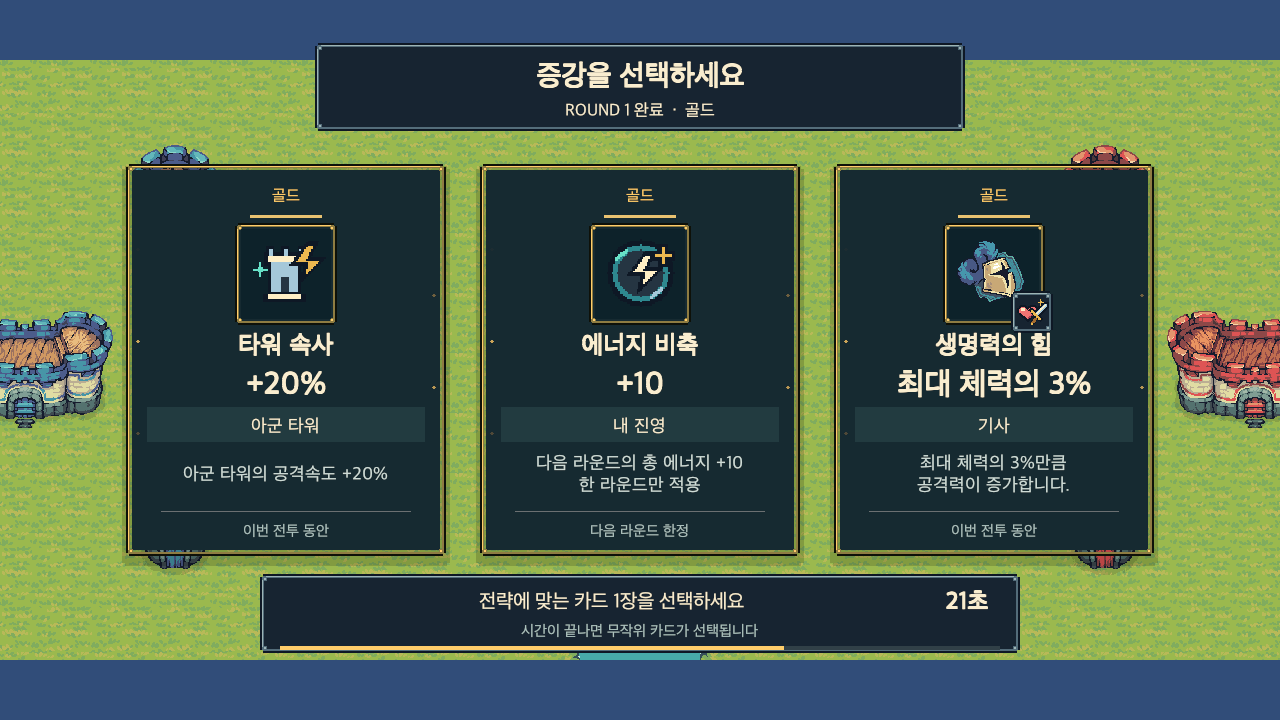
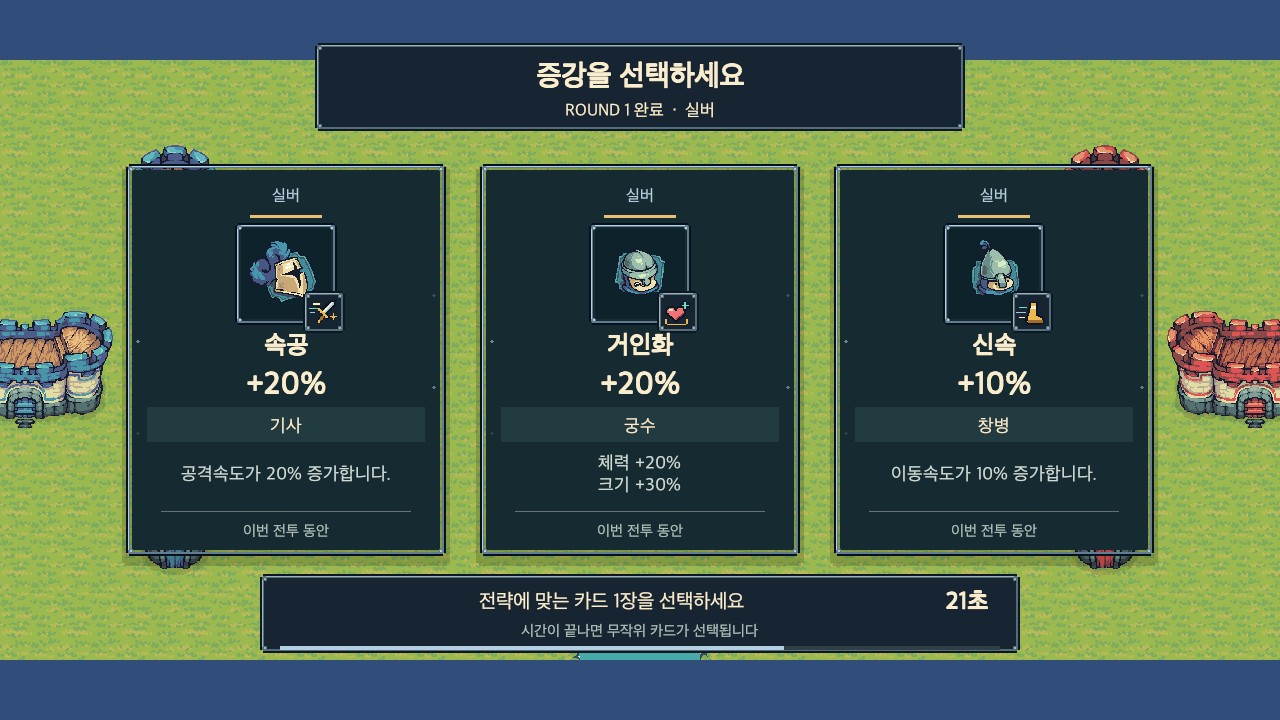
docs: 니성내성 기획 판단과 AI 수정 사례 보완

diff --git a/projects/teamfight/source/BattleSpellRules.cs b/projects/teamfight/source/BattleSpellRules.cs
@@ -1,0 +1,81 @@
+using System;
+using System.Collections.Generic;
+
+public enum BattleSpell { Fireball, Lightning, Frost, Poison }
+public static class BattleTempo
+{
+    public const float Movement = .80f;
+    public const float Attack = .80f;
+}
+public static class BattleSpellRules
+{
+    // Shared ground projection for targeting, visual footprint and authoritative hits.
+    public const float GroundAspect = .45f;
+    public const int Count = 4;
+    public const int Capacity = 16;
+    public static bool Valid(int kind) => kind >= 0 && kind < Count;
+    public static int Cost(int kind) => kind == 0 ? 4 : kind == 1 ? 2 : kind == 2 ? 3 : 4;
+    public static string Name(int kind) => new[] { "화염구", "번개", "빙결", "독" }[kind];
+    public static float Radius(int kind) => kind == 1 ? 1.4f : kind == 0 ? 1.8f : 2f;
+    public static float Delay(int kind) => kind == 0 ? 1.65f : kind == 1 ? .76f : .4f;
+    public static float Duration(int kind) => kind == 3 ? 5f : kind == 2 ? 2f : kind == 1 ? 3f : 0;
+    public static float ActiveDuration(SpellSnapshot spell) => Duration(spell.Kind) + spell.ExtraDuration;
+    public static float Damage(int kind) => kind == 0 ? 160f : kind == 1 ? 15f : kind == 3 ? 18f : 0;
+    public static float Cooldown(int kind) => 0f;
+    public static bool ValidPoint(float x,float y) => !float.IsNaN(x)&&!float.IsNaN(y)&&!float.IsInfinity(x)&&!float.IsInfinity(y)&&Math.Abs(x)<=12&&Math.Abs(y)<=5;
+    public static bool Contains(SpellSnapshot spell,float x,float y)
+    { float dx=x-spell.X,dy=(y-spell.Y)/GroundAspect,r=Radius(spell.Kind);return dx*dx+dy*dy<=r*r; }
+    public static bool Intersects(SpellSnapshot spell,ArenaNavigation.Obstacle bounds)
+    {return Contains(spell,Math.Max(bounds.MinX,Math.Min(bounds.MaxX,spell.X)),Math.Max(bounds.MinY,Math.Min(bounds.MaxY,spell.Y)));}
+
+}
+public struct SpellSnapshot
+#if TEAMFIGHT_FUSION
+    : Fusion.INetworkStruct
+#endif
+{
+    public int Id, Team, Kind;
+    public float X, Y, Age, ExtraDuration, EmberDps;
+}
+/// <summary>Shared deterministic timing, capacity and cooldown rules for local and server battles.</summary>
+public sealed class BattleSpellTimeline
+{
+    public readonly List<SpellSnapshot> Active = new List<SpellSnapshot>();
+    readonly float[,] ready = new float[2,4];
+    float clock;
+    int serial;
+    public float ReadyIn(int team,int kind) => Math.Max(0,ready[team,kind]-clock);
+    public bool TryCast(int team,int kind,float x,float y,float energy,out string reason)
+    {
+        reason="";
+        if(team<0||team>1||!BattleSpellRules.Valid(kind)||!BattleSpellRules.ValidPoint(x,y)){reason="Invalid spell target.";return false;}
+        if(Active.Count>=BattleSpellRules.Capacity){reason="Too many active spells.";return false;}
+        if(ReadyIn(team,kind)>0){reason="Spell is cooling down.";return false;}
+        if(energy<BattleSpellRules.Cost(kind)){reason="Not enough energy.";return false;}
+        ready[team,kind]=clock+BattleSpellRules.Cooldown(kind);
+        Active.Add(new SpellSnapshot{Id=++serial,Team=team,Kind=kind,X=x,Y=y});return true;
+    }
+    public bool BlocksHealing(int team,float x,float y)
+    {
+        foreach(var s in Active)if(s.Kind==3&&s.Team!=team&&s.Age>=BattleSpellRules.Delay(3)&&s.Age<BattleSpellRules.Delay(3)+BattleSpellRules.ActiveDuration(s)&&BattleSpellRules.Contains(s,x,y))return true;
+        return false;
+    }
+    public void Tick(float dt,Action<SpellSnapshot,float> apply)
+    {
+        if(dt<=0||float.IsNaN(dt)||float.IsInfinity(dt))return;
+        clock+=dt;
+        for(int i=Active.Count-1;i>=0;i--){var s=Active[i];float previous=s.Age;s.Age+=dt;Active[i]=s;
+            float delay=BattleSpellRules.Delay(s.Kind);
+            if(s.Kind==3){float overlap=Math.Max(0,Math.Min(s.Age,delay+BattleSpellRules.ActiveDuration(s))-Math.Max(previous,delay));if(overlap>0)apply(s,overlap);}
+            else {
+                if(previous<delay&&s.Age>=delay)apply(s,1);
+                if(s.Kind==0 && s.EmberDps>0) {
+                    float overlap=Math.Max(0,Math.Min(s.Age,delay+s.ExtraDuration)-Math.Max(previous,delay));
+                    if(overlap>0)apply(s,-overlap);
+                }
+            }
+            if(s.Age>delay+Math.Max(1.2f,BattleSpellRules.ActiveDuration(s)))Active.RemoveAt(i);
+        }
+    }
+    public void Clear(){Active.Clear();Array.Clear(ready,0,ready.Length);}
+}

diff --git a/projects/teamfight/source/BattleAugmentRules.cs b/projects/teamfight/source/BattleAugmentRules.cs
@@ -5,7 +5,7 @@ public enum AugmentTier { Silver, Gold, Prismatic }
 public enum AugmentEffect
 {
     AttackSpeed, HealthAndSize, MovementSpeed, TowerAttackSpeed, NextRoundEnergy,
-    HealthDamage, TotalAttackSpeed, Range, Cost, Twins, StationaryTaunt, Unlimited
+    HealthDamage, TotalAttackSpeed, Range, Cost, Twins, StationaryTaunt, Unlimited, FireEmbers, LightningMark, FrostShatter, PoisonZone
 }
 
 public static class BattleAugmentRules
@@ -17,25 +17,28 @@ public static class BattleAugmentRules
         return roll < 40 ? AugmentTier.Silver : roll < 75 ? AugmentTier.Gold : AugmentTier.Prismatic;
     }
     public static AugmentTier Tier(AugmentEffect effect)
-        => effect <= AugmentEffect.MovementSpeed ? AugmentTier.Silver
+        => SpellKind(effect) >= 0 ? AugmentTier.Gold : effect <= AugmentEffect.MovementSpeed ? AugmentTier.Silver
         : effect <= AugmentEffect.Range ? AugmentTier.Gold : AugmentTier.Prismatic;
     public static bool TargetsUnit(AugmentEffect effect)
         => effect != AugmentEffect.TowerAttackSpeed && effect != AugmentEffect.NextRoundEnergy;
     public static int Encode(AugmentEffect effect, int kind) => (int)effect * 65536 + kind + 1;
     public static AugmentEffect Effect(int code) => (AugmentEffect)(code / 65536);
     public static int Kind(int code) => code % 65536 - 1;
-    public static int[] Offer(AugmentTier tier, int[] deck, Random random)
+    public static int SpellKind(AugmentEffect effect) => effect >= AugmentEffect.FireEmbers && effect <= AugmentEffect.PoisonZone ? (int)effect - (int)AugmentEffect.FireEmbers : -1;
+    public static int[] Offer(AugmentTier tier, int[] deck, Random random, Func<int,int> spellKind = null, Func<AugmentEffect,bool> eligible = null)
     {
         var effects = new List<List<int>>();
         int combinations = 0;
         foreach (AugmentEffect effect in Enum.GetValues(typeof(AugmentEffect)))
         {
-            if (Tier(effect) != tier) continue;
+            if (Tier(effect) != tier || eligible != null && !eligible(effect)) continue;
             var pool = new List<int>();
             if (TargetsUnit(effect))
             {
                 foreach (int kind in deck)
                 {
+                    int spell = spellKind == null ? -1 : spellKind(kind);
+                    if (SpellKind(effect) >= 0 ? spell != SpellKind(effect) : spell >= 0) continue;
                     int code = Encode(effect, kind);
                     if (!pool.Contains(code)) pool.Add(code);
                 }

diff --git a/projects/teamfight/source/DuelSimulation.Augments.cs b/projects/teamfight/source/DuelSimulation.Augments.cs
@@ -50,7 +50,7 @@ public sealed partial class DuelSimulation
                 pool = new int[definitions.Length];
                 for (int kind = 0; kind < pool.Length; kind++) pool[kind] = kind;
             }
-            augmentOffers[team] = BattleAugmentRules.Offer(CurrentAugmentTier, pool, augmentRandom);
+            augmentOffers[team] = BattleAugmentRules.Offer(CurrentAugmentTier, pool, augmentRandom, kind => definitions[kind].Spell, effect => BattleAugmentRules.SpellKind(effect) < 0 || !spellAugments[team,BattleAugmentRules.SpellKind(effect)]);
             augmentPicks[team] = -1;
         }
         SelectingAugment = true; AugmentSeconds = BattleAugmentRules.SelectionSeconds;
@@ -79,6 +79,8 @@ public sealed partial class DuelSimulation
     void ApplyAugment(int team, int code)
     {
         var effect = BattleAugmentRules.Effect(code);
+        int spellKind = BattleAugmentRules.SpellKind(effect);
+        if (spellKind >= 0) { spellAugments[team, spellKind] = true; return; }
         if (effect == AugmentEffect.TowerAttackSpeed) { towerAttackRate[team] *= 1.2f; return; }
         if (effect == AugmentEffect.NextRoundEnergy) { nextRoundEnergy[team] += 10; return; }
         if (originalDefinitions == null)

diff --git a/projects/teamfight/README.md b/projects/teamfight/README.md
@@ -1,45 +1,81 @@
-# 팀파이트 — Unity 전략 대전 게임
+# 니성내성 — 배치와 증강 선택으로 성을 공략하는 전략 대전
 
-유닛 카드를 배치해 상대의 성을 공략하고, 라운드 사이에 증강을 선택하는 전략 대전 게임입니다.
+유닛 카드를 배치해 상대 성을 공략하는 Unity 게임입니다. 반복되는 전투에 변화를 주려고 증강을 추가했고, 유닛을 보내는 것만으로 부족했던 재미를 보완하려고 주문 카드를 만들었습니다.
 
-| 항목 | 내용 |
+| 기간·구성 | 담당 | 환경 | 상태 |
+| --- | --- | --- | --- |
+| 2026년 7월부터 · 2인 | 게임 기획·개발, 플레이 확인과 수정 | Unity 6 · C# · Codex | 개발 중 · 무료 출시 목표 |
+
+기획 방향과 플레이 결과 판단은 제가 맡고, 코드 구현과 원인 분석에는 AI 개발 도구를 활용했습니다. 팀원과는 매주 회의에서 그 주에 맡을 작업을 정했습니다.
+
+## 플레이 흐름
+
+![유닛과 주문이 같은 손패·에너지를 사용하는 개발 화면](media/mixed-hand.png)
+
+**카드 선택·배치 → 전투 → 라운드 종료 → 증강 선택 → 다음 라운드.** 유닛과 주문은 7장 덱에 함께 넣으며, 같은 손패와 에너지를 사용합니다. 첫 슬롯은 유닛 선봉으로 고정하고 나머지 슬롯에 유닛이나 주문을 배치합니다.
+
+## 1. 매 판 비슷한 전개에 증강 선택을 추가했습니다
+
+직접 플레이하면서 매 판 비슷한 흐름이 반복된다고 느꼈습니다. 증강 추가 전 버전을 플레이한 친구에게서도 “루즈하다”는 의견을 들었습니다. 다음 전투의 조건을 바꿀 수 있도록 라운드 사이 세 가지 증강 중 하나를 고르는 시스템을 추가했습니다.
+
+![대상·수치·지속 시간을 구분한 증강 화면](media/augment.png)
+
+선택지는 자신의 덱을 바탕으로 생성하고 동일한 효과·대상 조합은 한 화면에 중복되지 않습니다. 양쪽에 같은 등급을 제공하지만 카드 내용까지 동일하지는 않습니다.
+
+| 골드 등급의 규칙 예시 | 적용 기간 | 달라지는 선택 |
+| --- | --- | --- |
+| 에너지 +10 | 다음 라운드만 | 다음 라운드의 배치·주문 자원을 늘림 |
+| 특정 유닛 총 공격속도 ×1.5 | 남은 전투 | 해당 유닛의 공격 빈도를 높임 |
+| 특정 유닛 사거리 ×1.2 | 남은 전투 | 해당 유닛이 공격 가능한 거리를 늘림 |
+
+다음 라운드 자원을 확보할지, 계속 활용할 유닛을 강화할지 고민할 수 있는 구조입니다. 위 조합은 규칙을 설명하기 위한 예시이며 실제 선택률을 측정한 결과는 아닙니다. 추가 전후를 직접 플레이했을 때는 이전보다 선택의 변화가 생겼다고 느꼈습니다. 추가 후 외부 플레이어 평가는 아직 확보하지 않았습니다.
+
+선택 뒤의 흐름도 연결했습니다. 한 명만 고르면 상대 선택 대기를 표시하고, 30초가 지나면 미선택자만 자동 선택합니다. 양쪽 선택이 끝나면 추가 5초 대기 없이 다음 라운드를 시작합니다. 새 경기에서는 이전 증강·유닛·성 체력·에너지·손패를 초기화합니다.
+
+## 2. 주문마다 역할을 나누고, AI가 다르게 이해한 부분을 바로잡았습니다
+
+유닛을 배치해서 보내는 것만으로는 재미가 부족하다고 느껴 주문을 추가했습니다. 제가 정한 역할은 화염구의 물량 정리, 번개의 저비용 둔화, 빙결의 행동 정지, 독의 지속 피해와 회복 차단입니다.
+
+| 주문 | 제가 정한 역할 | 현재 구현된 기본 수치 |
+| --- | --- | --- |
+| 화염구 | 낮은 코스트의 물량 유닛 정리 | 에너지 4 · 지연 후 범위 피해 160 |
+| 번개 | 적은 비용으로 적의 이동·공격을 늦춤 | 에너지 2 · 피해 15 · 3초간 이동·공격 속도 50% 감소 |
+| 빙결 | 이동과 공격을 멈춤 | 에너지 3 · 2초 정지 |
+| 독 | 지속 피해를 주며 회복 차단 | 에너지 4 · 5초간 초당 피해 18 · 영역 내 회복 불가 |
+
+AI가 독의 효과를 ‘회복량 감소’로 정리했을 때, 제가 원한 것은 회복을 아예 막는 효과라고 다시 설명했습니다. 현재 코드는 독 영역 안에서 회복을 차단하고, 영역이나 지속시간 조건을 벗어나면 회복이 가능하도록 처리합니다. 역할은 제가 정했고, 구체적인 구현과 수치 적용에는 AI의 도움을 받았습니다.
+
+마법 카드를 캐릭터 카드처럼 만들어 달라고 요청했을 때도 처음에는 외형만 바뀌고 별도 버튼으로 남았습니다. 저는 마법도 덱에 넣는 방식이라고 다시 설명했습니다. 이후 유닛과 주문이 같은 손패에서 나오고, 사용하면 에너지를 소모한 뒤 다음 카드로 순환하도록 수정했습니다. 따라서 주문을 쓰는 선택은 유닛 배치에 사용할 자원과 덱 슬롯에도 영향을 줍니다.
+
+## 3. 실제로 보이는 화면과 규칙이 맞는지 확인했습니다
+
+| 제가 발견한 문제 | 수정 방향 | 확인한 구현 |
+| --- | --- | --- |
+| 예고 범위와 실제 타격 범위가 달라 혼란스러움 | 미리 보는 영역과 실제 적용 영역을 일치시킴 | 미리보기·바닥 효과·타격 판정이 같은 타원형 범위 사용 |
+| 독 효과가 유닛을 가림 | 효과가 있어도 전투 상황을 볼 수 있도록 조정 | 독 영역을 유닛 아래에 렌더링 |
+| 시작 전 덱에 마법 그림이 빠짐 | 전투 전에 선택한 카드를 확인할 수 있도록 수정 | 주문 그림·이름·비용 표시 |
+| 성 게이지가 공격에 비해 이상하게 보임 | 실제 체력과 화면 비율을 대조하도록 요청 | 계산은 정상이었고 가독성 보완: 두께·테두리·피해 잔상 적용 |
+
+화염구 연출은 포물선과 하늘에서 떨어지는 안을 나란히 비교한 뒤 사선 낙하를 선택했습니다. 낙하 가속은 유지하되 전체 속도를 조금 늦추도록 다시 요청했고, 낙하 시간은 1.35초에서 1.65초로 조정됐습니다. AI의 첫 결과를 그대로 쓰기보다 직접 보고 원하는 동작과 어긋나는 부분을 좁혀 수정했습니다.
+
+## 4. 이동 오류와 협업
+
+유닛이 다리에 걸리거나 빙빙 돌고 의도와 다른 방향으로 이동하는 현상을 확인해 수정을 요청했습니다. 관련 힐러 수정에서는 사거리를 잠시 벗어난 아군을 계속 추적하고 회복 준비 시간을 보존하도록 바뀌었습니다. 건강한 힐러끼리 서로 따라가는 동작도 막았습니다. 원인 분석과 코드 수정은 AI의 도움을 받았으며, 당시 격리 검사 13건 통과 기록이 있습니다.
+
+팀원과 매주 회의에서 작업을 나누고, 개발 중 어려운 부분은 게임 업계 경험이 있는 교수님께 상담을 신청해 도움을 구했습니다.
+
+## 코드와 검증 기록
+
+| 자료 | 확인할 내용 |
 | --- | --- |
-| 기간 | 2026년 여름방학부터 개발 중 |
-| 담당 | 게임 기획·개발 |
-| 환경 | Unity 6000.3.11f1, C# |
-| 개발 방식 | 기획·플레이 판단은 직접 수행, 구현·원인 분석에 AI 개발 도구 활용 |
-| 상태 | 개발 중 / 2026년 11월 무료 출시 목표 |
+| [BattleAugmentRules.cs](source/BattleAugmentRules.cs) | 등급·효과·덱에 따른 선택지 생성, 중복 방지 |
+| [DuelSimulation.Augments.cs](source/DuelSimulation.Augments.cs) | 선택 확정·타임아웃·효과 적용·라운드 전환 |
+| [BattleSpellRules.cs](source/BattleSpellRules.cs) | 주문 비용·범위·지연·지속시간·회복 차단 |
+| [AugmentBattleChecks.cs](source/AugmentBattleChecks.cs) | 증강 선택과 전환 규칙 검사 |
+| [검증 기록과 출처](EVIDENCE.md) | 날짜별 기록과 남은 검증 범위 |
 
-![증강 선택 화면](media/augment.png)
+코드는 2026년 11월 24일 원본에서 가져온 발췌본이며 단독 실행되지 않습니다. 최신 주문·증강 변경의 실제 두 기기 온라인 대전과 실기기 터치는 추가 검증이 필요합니다. 이번 자료 보완에서는 게임 테스트를 다시 실행하지 않았습니다. 주문 추가 후 재미 개선을 측정한 결과도 아직 제시하지 않았습니다.
 
-## 기획 사례: 매 판 비슷한 흐름에 선택 요소 추가
+원본 프로젝트는 Unity Version Control로 관리합니다. 이 GitHub의 커밋은 포트폴리오 정리 이력입니다. 그래픽에는 Tiny Swords 등 외부 에셋을 사용하며 무료 출시는 목표입니다. 기존 작업명은 팀파이트이고 폴더명은 링크 유지를 위해 그대로 두었습니다.
 
-직접 플레이하면서 매 판 비슷하게 흘러가 변화가 적다고 느꼈습니다. 증강 추가 전 버전을 플레이한 친구에게서도 게임이 루즈하다는 피드백을 받았습니다.
-
-기획할 때는 기존 요소를 제한하거나 새 요소를 추가하면 플레이가 어떻게 달라질지 생각합니다. 이 프로젝트에서는 반복 플레이에 변화를 주기 위해 증강 시스템을 추가했습니다. 라운드 사이 세 가지 선택지 중 하나를 고르고, 선택한 효과를 이후 전투에 적용하는 구조입니다.
-
-추가 전후를 직접 플레이했을 때 이전보다 재미있다고 느꼈습니다. 추가 후 평가는 제 플레이 경험을 기준으로 했습니다. 다른 이용자의 피드백은 더 받아볼 예정입니다.
-
-## 구현과 연결되는 코드
-
-| 파일 | 확인할 내용 |
-| --- | --- |
-| [BattleAugmentRules.cs](source/BattleAugmentRules.cs) | 등급·효과, 선택지 3개 생성, 동일 조합 중복 방지, 효과 설명 |
-| [DuelSimulation.Augments.cs](source/DuelSimulation.Augments.cs) | 전투 시뮬레이션에 적용되는 증강 처리 |
-| [AugmentBattleChecks.cs](source/AugmentBattleChecks.cs) | 증강 규칙 검사 코드 |
-
-예를 들어 다음 라운드 에너지 +10과 유닛 대상 강화는 적용 대상·기간이 다릅니다. 화면에는 대상, 핵심 수치, 지속 시간을 구분해 표시합니다.
-
-## 검증 범위
-
-개발 기록에는 2026년 11월 18일 격리된 UI/로컬 Play 환경에서 선택 상태·다음 라운드 연결·문구 표시 등을 확인한 내용이 있습니다. 이번 포트폴리오 정리에서는 게임 테스트를 다시 실행하지 않았습니다. 최신 변경의 실제 두 기기 온라인 검증과 배포 여부는 별도 확인 대상입니다.
-
-## 실행 안내
-
-이 폴더의 코드는 검토용 발췌본이며 단독으로 실행되지 않습니다. 원본 Unity 프로젝트를 보유한 경우 Unity Hub에서 프로젝트 루트를 Unity 6000.3.11f1로 열고 패키지 로딩을 완료합니다. 원본에는 `Tools > Online Duel > Validate Augments` 검사 메뉴가 있습니다. 온라인 실행에는 원본 프로젝트의 클라이언트·서버 설정과 버전 일치가 필요합니다.
-
-## 개발 기록
-
-원본은 Unity Version Control(Plastic)로 관리됩니다. 이 저장소에는 README와 발췌 코드를 정리한 이력을 남깁니다.
-
-[전체 포트폴리오](../../README.md)
+[노션 상세 페이지](https://sedate-lemonade-73b.notion.site/41de2140367a81179661fdab4eaf75e8) · [전체 포트폴리오](../../README.md)

diff --git a/README.md b/README.md
@@ -1,27 +1,35 @@
 # 박금혁 | 게임 기획·개발 포트폴리오
 
-Unity로 전략 대전 게임 팀파이트를 만들고 있는 박금혁입니다. 게임 기획과 개발을 맡고 있으며, 2인 게임 프로젝트에서는 UI 전반을, 기업 연계 캡스톤에서는 웹 프론트엔드를 담당했습니다.
+Unity 전략 대전 게임 **니성내성**을 기획하고 개발하는 박금혁입니다. 직접 플레이하며 바꿀 점을 찾고, AI 개발 도구를 활용해 규칙과 화면으로 구현하고 있습니다. EGO SYSTEM에서는 게임 기획과 UI 전반을, 기업 연계 캡스톤에서는 웹 프론트엔드를 담당했습니다.
 
-[노션 포트폴리오 보기](https://app.notion.com/p/41de2140367a812bb2dbe3c74dc3e58e)
+[노션 포트폴리오 보기](https://sedate-lemonade-73b.notion.site/41de2140367a812bb2dbe3c74dc3e58e)
+
+## 대표 프로젝트 · 니성내성
+
+![유닛과 주문이 같은 손패·에너지를 사용하는 개발 화면](projects/teamfight/media/mixed-hand.png)
+
+**유닛 배치 → 전투 → 증강 선택 → 다음 라운드.** 매 판 비슷하던 전개에 변화를 주려고 증강을 추가했습니다. 아래에서 선택 규칙과 이동 오류 수정 전후, 관련 코드를 확인할 수 있습니다.
+
+[대표작과 작업 사례 보기 →](projects/teamfight/README.md)
 
 ## 프로젝트
 
 | 프로젝트 | 담당 역할 | 먼저 볼 내용 |
 | --- | --- | --- |
-| [팀파이트](projects/teamfight/README.md) | 게임 기획·개발, AI 개발 도구 활용 | 반복적인 플레이에 증강 선택을 추가한 사례와 구현 코드 |
+| [니성내성](projects/teamfight/README.md) | 게임 기획·개발, AI 개발 도구 활용 | 증강 선택·주문 카드·힐러 이동 수정 사례 |
 | [EGO SYSTEM](projects/ego-system/README.md) | 게임 기획·게임 전반의 UI 개발 | Unity 화면 연결·정보 표시·선택 UI |
 | [Incheon-Air](projects/incheon-air/README.md) | 기획·프론트엔드 전반 | 지도·근거 패널·모바일 화면과 실제 변경 이력 |
 | [AI 매쓰플래너](projects/mathplanner/README.md) | 서비스 기획·기능 구성·발표·마케팅 방향 | 학습 흐름과 무료 기능 확장 기획, 서비스 소개 영상 |
 
 ## 자료 읽는 방법
 
-각 README에서 역할과 결과물을 설명하고, 관련 코드 또는 기존 저장소의 변경 기록으로 연결합니다. `source/`는 2026년 11월 19일 원본에서 선별한 코드 사본으로, 전체 실행 프로젝트가 아닙니다. 복사 과정에서 코드를 수정하지 않았으며 [파일 해시](projects/source-manifest.json)를 남겼습니다.
+각 README에서 역할과 결과물을 설명하고 관련 코드로 연결합니다. `source/`는 원본에서 선별한 코드 사본으로, 전체 실행 프로젝트가 아닙니다. 니성내성은 2026년 11월 24일 소스로 갱신했으며, 파일별 수집일과 원본 경로·SHA-256은 [파일 목록](projects/source-manifest.json)에 기록했습니다.
 
 이 저장소의 커밋은 포트폴리오를 정리한 이력입니다. 프로젝트의 과거 개발 이력과는 구분합니다. [개발 기록 안내](DEVELOPMENT_HISTORY.md)에서 확인할 수 있는 실제 이력과 소스의 범위를 설명합니다.
 
 ## 담당 범위와 개발 상태
 
-- 팀파이트는 개발 중이며 2026년 11월 무료 출시를 목표로 합니다. 기획 판단과 플레이 확인을 맡고 코드 구현·원인 분석에는 AI 개발 도구를 활용했습니다. 그래픽에는 Tiny Swords 등 외부 에셋을 사용합니다.
+- 니성내성은 무료 출시를 목표로 개발 중입니다. 기획 판단과 플레이 확인을 맡고 코드 구현·원인 분석에는 AI 개발 도구를 활용했습니다. 그래픽에는 Tiny Swords 등 외부 에셋을 사용합니다. 기존 작업명은 팀파이트이며 링크 유지를 위해 폴더명은 `teamfight`로 두었습니다.
 - EGO SYSTEM은 2인 팀 프로젝트로, 게임 기획과 UI 전반을 담당했습니다.
 - Incheon-Air에서는 기획과 프론트엔드를 맡았습니다. 모델 평가 결과는 팀 성과입니다.
 - AI 매쓰플래너는 서비스·마케팅 기획안입니다. 출시 후 이용자 수나 매출은 측정하지 않았습니다.

diff --git a/projects/teamfight/EVIDENCE.md b/projects/teamfight/EVIDENCE.md
@@ -1,0 +1,32 @@
+# 니성내성 · 확인 자료와 검증 범위
+
+2026년 11월 24일 원본 코드·개발 문서·캡처와 개발 대화의 사용자 요청을 대조했습니다. 아래 검사 결과는 해당 날짜의 기록이며 이번 문서 작업에서 새로 실행한 결과가 아닙니다.
+
+| 기준일 | 원본 프로젝트 내 자료 | 기록된 내용 | 남은 범위 |
+| --- | --- | --- | --- |
+| 2026-10-10 | `Docs/HealerMovementReview.md` | 추적 거리 6, 추종 거리 1.75, 사거리 이탈 시 회복 준비 시간 보존. 격리 검사 13건 통과 | 모든 난전 조합·모바일 성능 |
+| 2026-10-25 | `Docs/BalanceBaseline/UnitLab/Applied-2.3.0.md` | 20종 능력치 조정·당시 이동속도 85% 적용. 자동 대전 1,704회, 시간 제한 내 미결정 0회 | 실제 이용자 승률·재미 평가와 별개. 최신 브랜치 속도 80%와 구분 |
+| 2026-11-18 | `Docs/AugmentUI-20261118.md` | 대상·선택 대기·확정·만료 표시, 한영 문구 및 해상도별 검사 | 실기기 터치·운영 네트워크 지연 |
+| 2026-11-18 | `Docs/DuelRematch-20261118.md` | 즉시 재개·타임아웃·로컬 AI 결과→리매치→다음 결과 확인 | 해당 변경의 운영 2인 리매치 |
+| 2026-11-23~24 | `Docs/SpellCardsBattleTempo.md` | 혼합 덱·공동 손패·에너지·주문 효과·대상 조건·증강 표시 검사. 로컬 입력·화면 확인 | 최신 클라이언트·전용 서버 동시 업데이트와 두 기기 대전 |
+
+## 개발 대화와 일치하는 본인 판단
+
+- 주문의 역할을 직접 구분했고, AI가 회복량 감소로 해석한 독을 회복 완전 차단으로 정정했습니다.
+- 카드 외형만 바꾸는 것으로 이해한 AI에게 주문을 덱에 넣는 구조라고 다시 설명했습니다.
+- 범위 미리보기와 실제 적용 범위의 차이, 독이 유닛을 가리는 문제, 준비 화면의 주문 이미지 누락을 지적했습니다.
+- 화염구 궤적 두 안의 비교를 요청해 사선 낙하를 선택하고 가속을 유지한 채 전체 속도를 조정했습니다.
+- 체력바 이상을 지적해 수치·화면 대조를 요청했으며, 분석 결과에 따라 가독성 보완이 진행됐습니다.
+
+위 판단과 수정 요청은 본인 경험이며 코드 구현·세부 원인 분석·자동 검사에는 AI 개발 도구를 활용했습니다. 개발 대화 원문에는 계정·서버 정보가 함께 있어 공개하지 않습니다.
+
+## 화면 출처
+
+- `media/mixed-hand.png`: 원본 `Captures/SpellFX/mixed-spell-hand.png`, 11월 23일 개발 캡처.
+- `media/augment.png`: 원본 `Captures/augment-ui-targets-20261118.png`, 11월 18일 미리보기 캡처.
+
+## 코드 범위
+
+`source/`는 검토용 발췌 파일입니다. `DuelSimulation.Augments.cs`는 partial 클래스의 일부이고 주문 규칙에도 원본 전장·시뮬레이션 의존성이 있어 단독 컴파일되지 않습니다. 파일별 원본 경로·SHA-256은 [목록](../source-manifest.json)에 기록했습니다.
+
+[프로젝트 소개로 돌아가기](README.md)

diff --git a/DEVELOPMENT_HISTORY.md b/DEVELOPMENT_HISTORY.md
@@ -6,12 +6,14 @@
 
 | 프로젝트 | 확인한 관리 상태 | 연결 방법 |
 | --- | --- | --- |
-| 팀파이트 | Unity Version Control 사용, 로컬 프로젝트의 Git 원격 없음 | 선정 소스·규칙 검사 코드·기획 사례 |
+| 니성내성 (기존 작업명 팀파이트) | Unity Version Control 사용, 로컬 프로젝트의 Git 원격 없음 | 선정 소스·규칙 검사 코드·기획 사례 |
 | EGO SYSTEM | 로컬 Unity 소스 확인, Git 이력 미확보 | 기획·담당 UI 설명과 선정 코드 |
 | Incheon-Air | 기존 GitHub 원격과 실제 Git 커밋 확인 | 프로젝트 README의 커밋 링크 |
 | 매쓰플래너 | 발표 자료·영상 확인, 소스 이력 미확보 | 기획 문서·영상·발표 발췌 |
 
 ## 앞으로 남길 커밋 메시지
+
+2026년 11월 24일에는 니성내성의 증강·주문 관련 코드 사본을 갱신하고, 실제 개발 화면과 규칙 설명·힐러 이동 수정 사례를 추가했습니다. 과거 개발 문서의 검사 결과와 이번 자료 대조를 구분했으며, 게임 테스트를 새로 실행한 것은 아닙니다.
 
 변경한 기능과 목적을 드러내는 짧은 제목을 쓰고, 판단 이유와 확인 결과는 본문에 적습니다. 아래는 작성 형식의 예시이며 실제 과거 커밋이 아닙니다.
 

diff --git a/projects/incheon-air/README.md b/projects/incheon-air/README.md
@@ -8,7 +8,7 @@
 - [확인한 프론트엔드 소스 버전](https://github.com/lc-moon/26_2_AICapstone_service/tree/273861f41a542df9b98d667706fd72ec2d4b7c1f/web)
 - [해당 버전 실행·구현 문서](https://github.com/lc-moon/26_2_AICapstone_service/blob/273861f41a542df9b98d667706fd72ec2d4b7c1f/web/README.md)
 
-저는 `web/`의 화면 구현과 API 연동을 맡았습니다. 모델과 백엔드는 팀원들이 담당했습니다. 위 링크는 로컬 Git 원격 주소와 커밋을 바탕으로 연결했으며 외부 계정의 열람 권한은 아직 확인하지 않았습니다.
+저는 `web/`의 화면 구현과 API 연동을 맡았습니다. 모델과 백엔드는 팀원들이 담당했습니다. 팀 저장소와 지도 상태 복원·모바일 검색의 변경 기록은 비로그인 상태의 공개 접근을 확인했습니다.
 
 ## 구현 사례
 

diff --git a/projects/mathplanner/README.md b/projects/mathplanner/README.md
@@ -12,7 +12,7 @@
 
 - [서비스 소개 영상 · 1분 16초](media/intro.mp4)
 - [팀 발표 자료 발췌 · 원본 1·6·7쪽](media/presentation.pdf)
-- [상세 기획 문서](https://app.notion.com/p/41de2140367a81978d0de9381ea28ef2)
+- [상세 기획 문서](https://sedate-lemonade-73b.notion.site/41de2140367a81978d0de9381ea28ef2)
 
 영상에서 학습 대시보드와 학습 지원 화면을 볼 수 있습니다. 현재 공개한 자료는 소개 영상과 발표 자료이며, 실행 가능한 소스는 포함되어 있지 않습니다.
 
